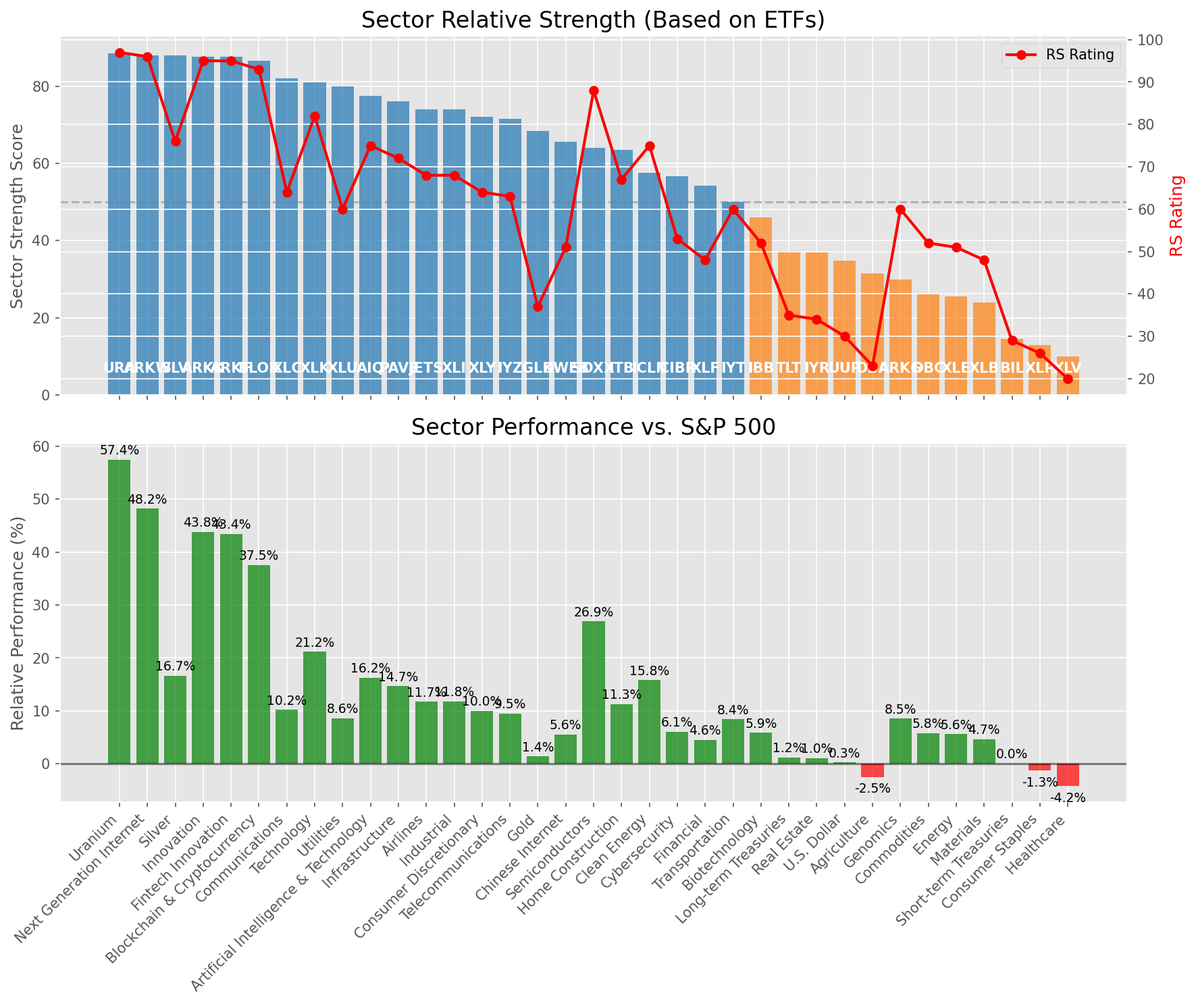
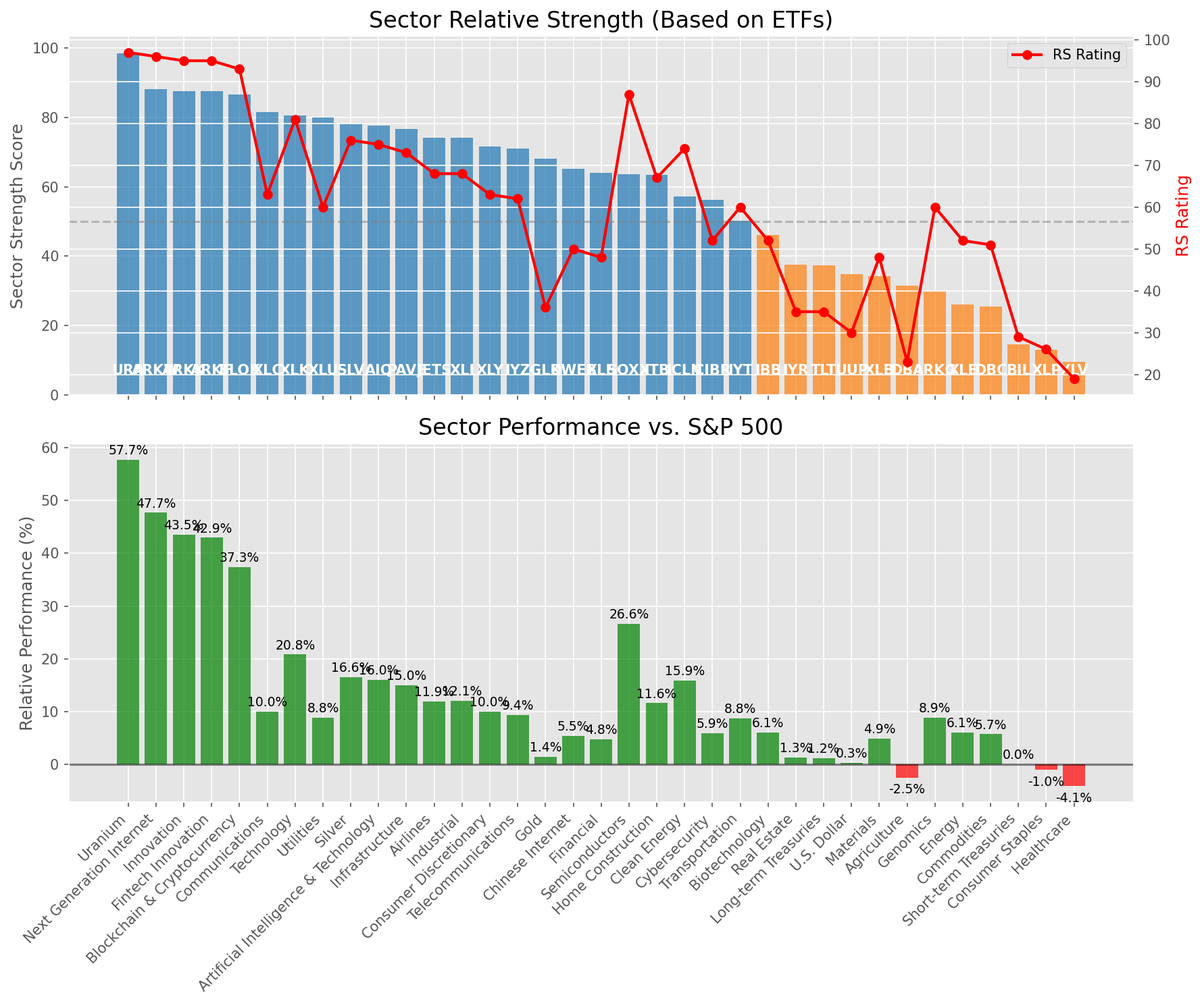
Add market report for 2025-08-05

diff --git a/oneil_relative_strength_report_2025-08-05.md b/oneil_relative_strength_report_2025-08-05.md
@@ -9,11 +9,11 @@
 | Metric | Value |
 |--------|-------|
 | **Market Valuation** | **Overvalued** |
-| **Current Ratio** | 10.20 |
+| **Current Ratio** | 10.21 |
 | **Historical Mean** | 9.60 |
 | **Standard Deviation** | 0.54 |
 | **Z-Score (StdDev from Mean)** | 1.17 |
-| **Total Market Cap** | $309.52 trillion |
+| **Total Market Cap** | $309.58 trillion |
 | **GDP** | $30.33 trillion |
 
 ## **Market Insights**
@@ -49,41 +49,41 @@ Based on William O'Neil's Relative Strength Methodology
 
 | ETF | Strength | RS Rating | Performance | Above Key MAs | Trend | Sector |
 |-----|----------|-----------|-------------|--------------|-------|--------|
-| [URA](https://www.tradingview.com/chart/?symbol=URA) | 88.6 | 97.0 | 57.43% | 10d ✗, 50d ✓, 200d ✓ | ↗ | Uranium |
-| [ARKW](https://www.tradingview.com/chart/?symbol=ARKW) | 88.1 | 96.0 | 48.19% | 10d ✗, 50d ✓, 200d ✓ | ↗ | Next Generation Internet |
-| [SLV](https://www.tradingview.com/chart/?symbol=SLV) | 88.0 | 76.0 | 16.67% | 10d ✓, 50d ✓, 200d ✓ | ↗ | Silver |
-| [ARKK](https://www.tradingview.com/chart/?symbol=ARKK) | 87.6 | 95.0 | 43.78% | 10d ✗, 50d ✓, 200d ✓ | ↗ | Innovation |
-| [ARKF](https://www.tradingview.com/chart/?symbol=ARKF) | 87.6 | 95.0 | 43.39% | 10d ✗, 50d ✓, 200d ✓ | ↗ | Fintech Innovation |
-| [BLOK](https://www.tradingview.com/chart/?symbol=BLOK) | 86.6 | 93.0 | 37.52% | 10d ✗, 50d ✓, 200d ✓ | ↗ | Blockchain & Cryptocurrency |
-| [XLC](https://www.tradingview.com/chart/?symbol=XLC) | 82.0 | 64.0 | 10.19% | 10d ✓, 50d ✓, 200d ✓ | ↗ | Communications |
-| [XLK](https://www.tradingview.com/chart/?symbol=XLK) | 81.1 | 82.0 | 21.15% | 10d ✗, 50d ✓, 200d ✓ | ↗ | Technology |
-| [XLU](https://www.tradingview.com/chart/?symbol=XLU) | 80.0 | 60.0 | 8.64% | 10d ✓, 50d ✓, 200d ✓ | ↗ | Utilities |
-| [AIQ](https://www.tradingview.com/chart/?symbol=AIQ) | 77.6 | 75.0 | 16.25% | 10d ✗, 50d ✓, 200d ✓ | ↗ | Artificial Intelligence & Technology |
-| [PAVE](https://www.tradingview.com/chart/?symbol=PAVE) | 76.1 | 72.0 | 14.65% | 10d ✗, 50d ✓, 200d ✓ | ↗ | Infrastructure |
-| [JETS](https://www.tradingview.com/chart/?symbol=JETS) | 74.1 | 68.0 | 11.72% | 10d ✗, 50d ✓, 200d ✓ | ↗ | Airlines |
-| [XLI](https://www.tradingview.com/chart/?symbol=XLI) | 74.1 | 68.0 | 11.82% | 10d ✗, 50d ✓, 200d ✓ | ↗ | Industrial |
-| [XLY](https://www.tradingview.com/chart/?symbol=XLY) | 72.1 | 64.0 | 9.99% | 10d ✗, 50d ✓, 200d ✓ | ↗ | Consumer Discretionary |
-| [IYZ](https://www.tradingview.com/chart/?symbol=IYZ) | 71.6 | 63.0 | 9.47% | 10d ✗, 50d ✓, 200d ✓ | ↗ | Telecommunications |
-| [GLD](https://www.tradingview.com/chart/?symbol=GLD) | 68.5 | 37.0 | 1.40% | 10d ✓, 50d ✓, 200d ✓ | ↗ | Gold |
-| [KWEB](https://www.tradingview.com/chart/?symbol=KWEB) | 65.6 | 51.0 | 5.56% | 10d ✗, 50d ✓, 200d ✓ | ↗ | Chinese Internet |
-| [SOXX](https://www.tradingview.com/chart/?symbol=SOXX) | 64.1 | 88.0 | 26.89% | 10d ✗, 50d ✓, 200d ✓ | ↘ | Semiconductors |
-| [ITB](https://www.tradingview.com/chart/?symbol=ITB) | 63.5 | 67.0 | 11.30% | 10d ✓, 50d ✓, 200d ✓ | ↘ | Home Construction |
-| [ICLN](https://www.tradingview.com/chart/?symbol=ICLN) | 57.6 | 75.0 | 15.82% | 10d ✗, 50d ✓, 200d ✓ | ↘ | Clean Energy |
-| [CIBR](https://www.tradingview.com/chart/?symbol=CIBR) | 56.7 | 53.0 | 6.07% | 10d ✗, 50d ✗, 200d ✓ | ↗ | Cybersecurity |
-| [XLF](https://www.tradingview.com/chart/?symbol=XLF) | 54.2 | 48.0 | 4.55% | 10d ✗, 50d ✗, 200d ✓ | ↗ | Financial |
-| [IYT](https://www.tradingview.com/chart/?symbol=IYT) | 50.1 | 60.0 | 8.42% | 10d ✗, 50d ✓, 200d ✓ | ↘ | Transportation |
-| [IBB](https://www.tradingview.com/chart/?symbol=IBB) | 46.1 | 52.0 | 5.86% | 10d ✗, 50d ✓, 200d ✓ | ↘ | Biotechnology |
-| [TLT](https://www.tradingview.com/chart/?symbol=TLT) | 37.3 | 35.0 | 1.17% | 10d ✓, 50d ✓, 200d ✗ | ↘ | Long-term Treasuries |
-| [IYR](https://www.tradingview.com/chart/?symbol=IYR) | 37.1 | 34.0 | 1.04% | 10d ✗, 50d ✓, 200d ✓ | ↘ | Real Estate |
-| [UUP](https://www.tradingview.com/chart/?symbol=UUP) | 34.8 | 30.0 | 0.25% | 10d ✓, 50d ✓, 200d ✗ | ↘ | U.S. Dollar |
+| [URA](https://www.tradingview.com/chart/?symbol=URA) | 98.5 | 97.0 | 57.70% | 10d ✓, 50d ✓, 200d ✓ | ↗ | Uranium |
+| [ARKW](https://www.tradingview.com/chart/?symbol=ARKW) | 88.1 | 96.0 | 47.68% | 10d ✗, 50d ✓, 200d ✓ | ↗ | Next Generation Internet |
+| [ARKK](https://www.tradingview.com/chart/?symbol=ARKK) | 87.6 | 95.0 | 43.50% | 10d ✗, 50d ✓, 200d ✓ | ↗ | Innovation |
+| [ARKF](https://www.tradingview.com/chart/?symbol=ARKF) | 87.6 | 95.0 | 42.95% | 10d ✗, 50d ✓, 200d ✓ | ↗ | Fintech Innovation |
+| [BLOK](https://www.tradingview.com/chart/?symbol=BLOK) | 86.6 | 93.0 | 37.35% | 10d ✗, 50d ✓, 200d ✓ | ↗ | Blockchain & Cryptocurrency |
+| [XLC](https://www.tradingview.com/chart/?symbol=XLC) | 81.5 | 63.0 | 10.05% | 10d ✓, 50d ✓, 200d ✓ | ↗ | Communications |
+| [XLK](https://www.tradingview.com/chart/?symbol=XLK) | 80.6 | 81.0 | 20.81% | 10d ✗, 50d ✓, 200d ✓ | ↗ | Technology |
+| [XLU](https://www.tradingview.com/chart/?symbol=XLU) | 80.0 | 60.0 | 8.84% | 10d ✓, 50d ✓, 200d ✓ | ↗ | Utilities |
+| [SLV](https://www.tradingview.com/chart/?symbol=SLV) | 78.1 | 76.0 | 16.57% | 10d ✗, 50d ✓, 200d ✓ | ↗ | Silver |
+| [AIQ](https://www.tradingview.com/chart/?symbol=AIQ) | 77.6 | 75.0 | 16.01% | 10d ✗, 50d ✓, 200d ✓ | ↗ | Artificial Intelligence & Technology |
+| [PAVE](https://www.tradingview.com/chart/?symbol=PAVE) | 76.6 | 73.0 | 14.99% | 10d ✗, 50d ✓, 200d ✓ | ↗ | Infrastructure |
+| [JETS](https://www.tradingview.com/chart/?symbol=JETS) | 74.1 | 68.0 | 11.91% | 10d ✗, 50d ✓, 200d ✓ | ↗ | Airlines |
+| [XLI](https://www.tradingview.com/chart/?symbol=XLI) | 74.1 | 68.0 | 12.08% | 10d ✗, 50d ✓, 200d ✓ | ↗ | Industrial |
+| [XLY](https://www.tradingview.com/chart/?symbol=XLY) | 71.6 | 63.0 | 10.04% | 10d ✗, 50d ✓, 200d ✓ | ↗ | Consumer Discretionary |
+| [IYZ](https://www.tradingview.com/chart/?symbol=IYZ) | 71.1 | 62.0 | 9.41% | 10d ✗, 50d ✓, 200d ✓ | ↗ | Telecommunications |
+| [GLD](https://www.tradingview.com/chart/?symbol=GLD) | 68.0 | 36.0 | 1.44% | 10d ✓, 50d ✓, 200d ✓ | ↗ | Gold |
+| [KWEB](https://www.tradingview.com/chart/?symbol=KWEB) | 65.1 | 50.0 | 5.47% | 10d ✗, 50d ✓, 200d ✓ | ↗ | Chinese Internet |
+| [XLF](https://www.tradingview.com/chart/?symbol=XLF) | 64.1 | 48.0 | 4.78% | 10d ✗, 50d ✓, 200d ✓ | ↗ | Financial |
+| [SOXX](https://www.tradingview.com/chart/?symbol=SOXX) | 63.6 | 87.0 | 26.63% | 10d ✗, 50d ✓, 200d ✓ | ↘ | Semiconductors |
+| [ITB](https://www.tradingview.com/chart/?symbol=ITB) | 63.5 | 67.0 | 11.62% | 10d ✓, 50d ✓, 200d ✓ | ↘ | Home Construction |
+| [ICLN](https://www.tradingview.com/chart/?symbol=ICLN) | 57.1 | 74.0 | 15.92% | 10d ✗, 50d ✓, 200d ✓ | ↘ | Clean Energy |
+| [CIBR](https://www.tradingview.com/chart/?symbol=CIBR) | 56.2 | 52.0 | 5.93% | 10d ✗, 50d ✗, 200d ✓ | ↗ | Cybersecurity |
+| [IYT](https://www.tradingview.com/chart/?symbol=IYT) | 50.1 | 60.0 | 8.79% | 10d ✗, 50d ✓, 200d ✓ | ↘ | Transportation |
+| [IBB](https://www.tradingview.com/chart/?symbol=IBB) | 46.1 | 52.0 | 6.09% | 10d ✗, 50d ✓, 200d ✓ | ↘ | Biotechnology |
+| [IYR](https://www.tradingview.com/chart/?symbol=IYR) | 37.6 | 35.0 | 1.30% | 10d ✗, 50d ✓, 200d ✓ | ↘ | Real Estate |
+| [TLT](https://www.tradingview.com/chart/?symbol=TLT) | 37.3 | 35.0 | 1.21% | 10d ✓, 50d ✓, 200d ✗ | ↘ | Long-term Treasuries |
+| [UUP](https://www.tradingview.com/chart/?symbol=UUP) | 34.8 | 30.0 | 0.31% | 10d ✓, 50d ✓, 200d ✗ | ↘ | U.S. Dollar |
+| [XLB](https://www.tradingview.com/chart/?symbol=XLB) | 34.2 | 48.0 | 4.92% | 10d ✗, 50d ✗, 200d ✓ | ↘ | Materials |
 | [DBA](https://www.tradingview.com/chart/?symbol=DBA) | 31.5 | 23.0 | -2.48% | 10d ✗, 50d ✗, 200d ✗ | ↗ | Agriculture |
-| [ARKG](https://www.tradingview.com/chart/?symbol=ARKG) | 30.0 | 60.0 | 8.53% | 10d ✗, 50d ✗, 200d ✗ | ↘ | Genomics |
-| [DBC](https://www.tradingview.com/chart/?symbol=DBC) | 26.0 | 52.0 | 5.84% | 10d ✗, 50d ✗, 200d ✗ | ↘ | Commodities |
-| [XLE](https://www.tradingview.com/chart/?symbol=XLE) | 25.5 | 51.0 | 5.61% | 10d ✗, 50d ✗, 200d ✗ | ↘ | Energy |
-| [XLB](https://www.tradingview.com/chart/?symbol=XLB) | 24.0 | 48.0 | 4.70% | 10d ✗, 50d ✗, 200d ✗ | ↘ | Materials |
+| [ARKG](https://www.tradingview.com/chart/?symbol=ARKG) | 30.0 | 60.0 | 8.90% | 10d ✗, 50d ✗, 200d ✗ | ↘ | Genomics |
+| [XLE](https://www.tradingview.com/chart/?symbol=XLE) | 26.0 | 52.0 | 6.07% | 10d ✗, 50d ✗, 200d ✗ | ↘ | Energy |
+| [DBC](https://www.tradingview.com/chart/?symbol=DBC) | 25.5 | 51.0 | 5.74% | 10d ✗, 50d ✗, 200d ✗ | ↘ | Commodities |
 | [BIL](https://www.tradingview.com/chart/?symbol=BIL) | 14.5 | 29.0 | 0.03% | 10d ✗, 50d ✗, 200d ✗ | ↘ | Short-term Treasuries |
-| [XLP](https://www.tradingview.com/chart/?symbol=XLP) | 13.0 | 26.0 | -1.26% | 10d ✗, 50d ✗, 200d ✗ | ↘ | Consumer Staples |
-| [XLV](https://www.tradingview.com/chart/?symbol=XLV) | 10.0 | 20.0 | -4.16% | 10d ✗, 50d ✗, 200d ✗ | ↘ | Healthcare |
+| [XLP](https://www.tradingview.com/chart/?symbol=XLP) | 13.0 | 26.0 | -1.01% | 10d ✗, 50d ✗, 200d ✗ | ↘ | Consumer Staples |
+| [XLV](https://www.tradingview.com/chart/?symbol=XLV) | 9.5 | 19.0 | -4.05% | 10d ✗, 50d ✗, 200d ✗ | ↘ | Healthcare |
 
 ### **Sector ETF Performance Interpretation**
 
@@ -98,141 +98,137 @@ This table shows the relative strength metrics for different market sectors base
 
 ### **Current Sector Leadership**
 
-The current market leadership is coming from the following sectors: **Uranium, Next Generation Internet, Silver**.
+The current market leadership is coming from the following sectors: **Uranium, Next Generation Internet, Innovation**.
 
-The **Uranium** sector (represented by **URA**) is showing particularly strong relative strength with an RS rating of 97.0 and performance of 57.43% vs. the S&P 500. This sector is trading above its 50-day, 200-day moving average(s). Investors should consider focusing on high RS stocks within these leading sectors for potential outperformance.
+The **Uranium** sector (represented by **URA**) is showing particularly strong relative strength with an RS rating of 97.0 and performance of 57.70% vs. the S&P 500. This sector is trading above its 10-day, 50-day, 200-day moving average(s). Investors should consider focusing on high RS stocks within these leading sectors for potential outperformance.
 
 ---
 
 ## **Buy Recommendations**
 
-The following 56 stocks show exceptional relative strength:
+The following 54 stocks show exceptional relative strength:
 
 | RS Rating | Buy Score | Current Price | Chart | Name | Ticker |
 |-----------|-----------|---------------|-------|------|--------|
-| 100 | 100 | $196.23 | [Chart](https://www.tradingview.com/chart/?symbol=CLS) | Celestica, Inc. | CLS |
-| 100 | 100 | $150.53 | [Chart](https://www.tradingview.com/chart/?symbol=SEZL) | Sezzle Inc. Common Stock | SEZL |
-| 100 | 100 | $110.27 | [Chart](https://www.tradingview.com/chart/?symbol=CRDO) | Credo Technology Group Holding Ltd Ordinary Shares | CRDO |
-| 100 | 100 | $67.53 | [Chart](https://www.tradingview.com/chart/?symbol=MP) | MP Materials Corp. | MP |
-| 100 | 100 | $104.63 | [Chart](https://www.tradingview.com/chart/?symbol=HOOD) | Robinhood Markets, Inc. Class A Common Stock | HOOD |
-| 100 | 100 | $239.55 | [Chart](https://www.tradingview.com/chart/?symbol=DAVE) | Dave Inc. Class A Common Stock | DAVE |
-| 99 | 100 | $384.56 | [Chart](https://www.tradingview.com/chart/?symbol=TLN) | Talen Energy Corporation Common Stock | TLN |
-| 99 | 100 | $127.02 | [Chart](https://www.tradingview.com/chart/?symbol=RBLX) | Roblox Corporation | RBLX |
-| 98 | 100 | $205.55 | [Chart](https://www.tradingview.com/chart/?symbol=NET) | Cloudflare, Inc. Class A common stock, par value $0.001 per share | NET |
-| 98 | 100 | $38.05 | [Chart](https://www.tradingview.com/chart/?symbol=NNE) | Nano Nuclear Energy Inc. Common Stock | NNE |
-| 98 | 100 | $652.50 | [Chart](https://www.tradingview.com/chart/?symbol=GEV) | GE Vernova Inc. | GEV |
-| 98 | 100 | $58.78 | [Chart](https://www.tradingview.com/chart/?symbol=KTOS) | Kratos Defense & Security Solutions, Inc. | KTOS |
-| 98 | 100 | $186.62 | [Chart](https://www.tradingview.com/chart/?symbol=COOP) | Mr. Cooper Group Inc. Common Stock | COOP |
+| 100 | 100 | $195.96 | [Chart](https://www.tradingview.com/chart/?symbol=CLS) | Celestica, Inc. | CLS |
+| 100 | 100 | $103.87 | [Chart](https://www.tradingview.com/chart/?symbol=HOOD) | Robinhood Markets, Inc. Class A Common Stock | HOOD |
+| 100 | 100 | $240.06 | [Chart](https://www.tradingview.com/chart/?symbol=DAVE) | Dave Inc. Class A Common Stock | DAVE |
+| 100 | 100 | $150.93 | [Chart](https://www.tradingview.com/chart/?symbol=SEZL) | Sezzle Inc. Common Stock | SEZL |
+| 100 | 100 | $109.85 | [Chart](https://www.tradingview.com/chart/?symbol=CRDO) | Credo Technology Group Holding Ltd Ordinary Shares | CRDO |
+| 100 | 100 | $67.72 | [Chart](https://www.tradingview.com/chart/?symbol=MP) | MP Materials Corp. | MP |
+| 99 | 100 | $385.02 | [Chart](https://www.tradingview.com/chart/?symbol=TLN) | Talen Energy Corporation Common Stock | TLN |
+| 99 | 100 | $126.77 | [Chart](https://www.tradingview.com/chart/?symbol=RBLX) | Roblox Corporation | RBLX |
+| 98 | 100 | $58.85 | [Chart](https://www.tradingview.com/chart/?symbol=KTOS) | Kratos Defense & Security Solutions, Inc. | KTOS |
+| 98 | 100 | $206.13 | [Chart](https://www.tradingview.com/chart/?symbol=NET) | Cloudflare, Inc. Class A common stock, par value $0.001 per share | NET |
+| 98 | 100 | $652.24 | [Chart](https://www.tradingview.com/chart/?symbol=GEV) | GE Vernova Inc. | GEV |
+| 98 | 100 | $188.44 | [Chart](https://www.tradingview.com/chart/?symbol=COOP) | Mr. Cooper Group Inc. Common Stock | COOP |
+| 98 | 100 | $38.28 | [Chart](https://www.tradingview.com/chart/?symbol=NNE) | Nano Nuclear Energy Inc. Common Stock | NNE |
 | 97 | 100 | $111.66 | [Chart](https://www.tradingview.com/chart/?symbol=TPR) | Tapestry, Inc. Common Stock | TPR |
-| 96 | 100 | $35.53 | [Chart](https://www.tradingview.com/chart/?symbol=ATRO) | Astronics Corp | ATRO |
-| 96 | 100 | $172.03 | [Chart](https://www.tradingview.com/chart/?symbol=NRG) | NRG Energy, Inc. | NRG |
-| 95 | 100 | $21.59 | [Chart](https://www.tradingview.com/chart/?symbol=MAG) | MAG Silver Corp. | MAG |
-| 95 | 100 | $105.33 | [Chart](https://www.tradingview.com/chart/?symbol=VRNA) | Verona Pharma plc | VRNA |
-| 95 | 100 | $116.26 | [Chart](https://www.tradingview.com/chart/?symbol=SANM) | Sanmina  Corp | SANM |
-| 94 | 100 | $51.57 | [Chart](https://www.tradingview.com/chart/?symbol=BBW) | Build-A-Bear Workshop, Inc. | BBW |
-| 94 | 100 | $512.53 | [Chart](https://www.tradingview.com/chart/?symbol=CW) | Curtiss-Wright Corp. | CW |
-| 93 | 100 | $89.08 | [Chart](https://www.tradingview.com/chart/?symbol=RYTM) | Rhythm Pharmaceuticals, Inc. Common Stock | RYTM |
-| 93 | 100 | $49.30 | [Chart](https://www.tradingview.com/chart/?symbol=REVG) | REV Group, Inc. | REVG |
-| 93 | 100 | $172.01 | [Chart](https://www.tradingview.com/chart/?symbol=PLTR) | Palantir Technologies Inc. Class A Common Stock | PLTR |
-| 93 | 100 | $852.27 | [Chart](https://www.tradingview.com/chart/?symbol=AXON) | Axon Enterprise, Inc. Common Stock | AXON |
-| 92 | 100 | $108.09 | [Chart](https://www.tradingview.com/chart/?symbol=APH) | Amphenol Corporation | APH |
-| 92 | 100 | $48.52 | [Chart](https://www.tradingview.com/chart/?symbol=TOST) | Toast, Inc. | TOST |
-| 92 | 100 | $56.67 | [Chart](https://www.tradingview.com/chart/?symbol=AU) | AngloGold Ashanti plc | AU |
-| 92 | 100 | $347.64 | [Chart](https://www.tradingview.com/chart/?symbol=CVNA) | Carvana Co. | CVNA |
-| 91 | 100 | $84.99 | [Chart](https://www.tradingview.com/chart/?symbol=GDXU) | MicroSectors Gold Miners 3x Leveraged ETN | GDXU |
-| 91 | 100 | $43.19 | [Chart](https://www.tradingview.com/chart/?symbol=LTM) | LATAM Airlines Group S.A. American Depositary Shares (each representing two thousand (2,000) shares of Common Stock) | LTM |
-| 90 | 100 | $91.51 | [Chart](https://www.tradingview.com/chart/?symbol=EBAY) | eBay Inc | EBAY |
+| 96 | 100 | $116.48 | [Chart](https://www.tradingview.com/chart/?symbol=SANM) | Sanmina  Corp | SANM |
+| 96 | 100 | $173.31 | [Chart](https://www.tradingview.com/chart/?symbol=NRG) | NRG Energy, Inc. | NRG |
+| 96 | 100 | $35.63 | [Chart](https://www.tradingview.com/chart/?symbol=ATRO) | Astronics Corp | ATRO |
+| 95 | 100 | $105.38 | [Chart](https://www.tradingview.com/chart/?symbol=VRNA) | Verona Pharma plc | VRNA |
+| 95 | 100 | $21.63 | [Chart](https://www.tradingview.com/chart/?symbol=MAG) | MAG Silver Corp. | MAG |
+| 94 | 100 | $512.92 | [Chart](https://www.tradingview.com/chart/?symbol=CW) | Curtiss-Wright Corp. | CW |
+| 94 | 100 | $51.88 | [Chart](https://www.tradingview.com/chart/?symbol=BBW) | Build-A-Bear Workshop, Inc. | BBW |
+| 93 | 100 | $49.51 | [Chart](https://www.tradingview.com/chart/?symbol=REVG) | REV Group, Inc. | REVG |
+| 93 | 100 | $88.44 | [Chart](https://www.tradingview.com/chart/?symbol=RYTM) | Rhythm Pharmaceuticals, Inc. Common Stock | RYTM |
+| 93 | 100 | $865.25 | [Chart](https://www.tradingview.com/chart/?symbol=AXON) | Axon Enterprise, Inc. Common Stock | AXON |
+| 93 | 100 | $170.93 | [Chart](https://www.tradingview.com/chart/?symbol=PLTR) | Palantir Technologies Inc. Class A Common Stock | PLTR |
+| 92 | 100 | $56.88 | [Chart](https://www.tradingview.com/chart/?symbol=AU) | AngloGold Ashanti plc | AU |
+| 92 | 100 | $108.00 | [Chart](https://www.tradingview.com/chart/?symbol=APH) | Amphenol Corporation | APH |
+| 92 | 100 | $43.30 | [Chart](https://www.tradingview.com/chart/?symbol=LTM) | LATAM Airlines Group S.A. American Depositary Shares (each representing two thousand (2,000) shares of Common Stock) | LTM |
+| 92 | 100 | $349.44 | [Chart](https://www.tradingview.com/chart/?symbol=CVNA) | Carvana Co. | CVNA |
+| 91 | 100 | $85.44 | [Chart](https://www.tradingview.com/chart/?symbol=GDXU) | MicroSectors Gold Miners 3x Leveraged ETN | GDXU |
+| 90 | 100 | $272.03 | [Chart](https://www.tradingview.com/chart/?symbol=GE) | GE Aerospace | GE |
+| 90 | 100 | $91.58 | [Chart](https://www.tradingview.com/chart/?symbol=EBAY) | eBay Inc | EBAY |
 | 89 | 100 | $158.69 | [Chart](https://www.tradingview.com/chart/?symbol=VSEC) | VSE Corp | VSEC |
-| 89 | 100 | $270.96 | [Chart](https://www.tradingview.com/chart/?symbol=GE) | GE Aerospace | GE |
 | 88 | 100 | $55.85 | [Chart](https://www.tradingview.com/chart/?symbol=BTI) | British American Tobacco p.l.c. American Depositary Shares, American Depositary Shares, each representing one Ordinary Share | BTI |
-| 88 | 99 | $39.25 | [Chart](https://www.tradingview.com/chart/?symbol=ZLAB) | Zai Lab Limited American Depositary Shares | ZLAB |
-| 86 | 99 | $33.81 | [Chart](https://www.tradingview.com/chart/?symbol=DB) | Deutsche Bank Aktiengesellschaft | DB |
-| 88 | 98 | $383.80 | [Chart](https://www.tradingview.com/chart/?symbol=APP) | Applovin Corporation Class A Common Stock | APP |
-| 88 | 98 | $50.85 | [Chart](https://www.tradingview.com/chart/?symbol=SIL) | Global X Silver Miners ETF (NEW) | SIL |
-| 86 | 98 | $48.00 | [Chart](https://www.tradingview.com/chart/?symbol=BBIO) | BridgeBio Pharma, Inc. Common Stock | BBIO |
-| 86 | 98 | $42.92 | [Chart](https://www.tradingview.com/chart/?symbol=FROG) | JFrog Ltd. Ordinary Shares | FROG |
-| 87 | 97 | $189.93 | [Chart](https://www.tradingview.com/chart/?symbol=AWI) | Armstrong World Industries, Inc. | AWI |
-| 85 | 97 | $29.21 | [Chart](https://www.tradingview.com/chart/?symbol=OR) | OR Royalties Inc. | OR |
-| 84 | 97 | $39.95 | [Chart](https://www.tradingview.com/chart/?symbol=AHR) | American Healthcare REIT, Inc. | AHR |
-| 86 | 96 | $51.06 | [Chart](https://www.tradingview.com/chart/?symbol=PTCT) | PTC Therapeutics, Inc. | PTCT |
-| 84 | 96 | $80.51 | [Chart](https://www.tradingview.com/chart/?symbol=TPB) | Turning Point Brands, Inc. | TPB |
-| 85 | 95 | $261.29 | [Chart](https://www.tradingview.com/chart/?symbol=WTS) | Watts Water Technologies, Inc. Class A | WTS |
-| 84 | 95 | $146.83 | [Chart](https://www.tradingview.com/chart/?symbol=PPA) | Invesco Aerospace & Defense ETF | PPA |
-| 82 | 95 | $56.50 | [Chart](https://www.tradingview.com/chart/?symbol=ERJ) | Embraer S.A. | ERJ |
-| 84 | 94 | $95.92 | [Chart](https://www.tradingview.com/chart/?symbol=NDAQ) | Nasdaq, Inc. Common Stock | NDAQ |
-| 84 | 94 | $51.26 | [Chart](https://www.tradingview.com/chart/?symbol=FHI) | Federated Hermes, Inc. | FHI |
-| 83 | 94 | $29.09 | [Chart](https://www.tradingview.com/chart/?symbol=PAAS) | Pan American Silver Corp. | PAAS |
-| 83 | 93 | $19.71 | [Chart](https://www.tradingview.com/chart/?symbol=LQDA) | Liquidia Corporation Common Stock | LQDA |
-| 82 | 92 | $113.40 | [Chart](https://www.tradingview.com/chart/?symbol=SXT) | Sensient Technology Corporation | SXT |
-| 81 | 92 | $62.68 | [Chart](https://www.tradingview.com/chart/?symbol=WOR) | Worthington Enterprises, Inc. | WOR |
-| 81 | 92 | $241.36 | [Chart](https://www.tradingview.com/chart/?symbol=BAP) | Credicorp LTD | BAP |
+| 88 | 100 | $48.61 | [Chart](https://www.tradingview.com/chart/?symbol=BBIO) | BridgeBio Pharma, Inc. Common Stock | BBIO |
+| 88 | 99 | $39.43 | [Chart](https://www.tradingview.com/chart/?symbol=ZLAB) | Zai Lab Limited American Depositary Shares | ZLAB |
+| 86 | 99 | $33.80 | [Chart](https://www.tradingview.com/chart/?symbol=DB) | Deutsche Bank Aktiengesellschaft | DB |
+| 88 | 98 | $50.84 | [Chart](https://www.tradingview.com/chart/?symbol=SIL) | Global X Silver Miners ETF (NEW) | SIL |
+| 87 | 97 | $380.44 | [Chart](https://www.tradingview.com/chart/?symbol=APP) | Applovin Corporation Class A Common Stock | APP |
+| 87 | 97 | $190.44 | [Chart](https://www.tradingview.com/chart/?symbol=AWI) | Armstrong World Industries, Inc. | AWI |
+| 86 | 97 | $262.81 | [Chart](https://www.tradingview.com/chart/?symbol=WTS) | Watts Water Technologies, Inc. Class A | WTS |
+| 84 | 97 | $39.98 | [Chart](https://www.tradingview.com/chart/?symbol=AHR) | American Healthcare REIT, Inc. | AHR |
+| 86 | 96 | $51.10 | [Chart](https://www.tradingview.com/chart/?symbol=PTCT) | PTC Therapeutics, Inc. | PTCT |
+| 84 | 96 | $29.14 | [Chart](https://www.tradingview.com/chart/?symbol=OR) | OR Royalties Inc. | OR |
+| 84 | 96 | $80.55 | [Chart](https://www.tradingview.com/chart/?symbol=TPB) | Turning Point Brands, Inc. | TPB |
+| 83 | 96 | $57.00 | [Chart](https://www.tradingview.com/chart/?symbol=ERJ) | Embraer S.A. | ERJ |
+| 85 | 95 | $51.40 | [Chart](https://www.tradingview.com/chart/?symbol=FHI) | Federated Hermes, Inc. | FHI |
+| 85 | 95 | $19.98 | [Chart](https://www.tradingview.com/chart/?symbol=LQDA) | Liquidia Corporation Common Stock | LQDA |
+| 84 | 95 | $147.22 | [Chart](https://www.tradingview.com/chart/?symbol=PPA) | Invesco Aerospace & Defense ETF | PPA |
+| 84 | 94 | $96.44 | [Chart](https://www.tradingview.com/chart/?symbol=NDAQ) | Nasdaq, Inc. Common Stock | NDAQ |
+| 83 | 94 | $197.60 | [Chart](https://www.tradingview.com/chart/?symbol=ITA) | iShares U.S. Aerospace & Defense ETF | ITA |
+| 83 | 94 | $29.14 | [Chart](https://www.tradingview.com/chart/?symbol=PAAS) | Pan American Silver Corp. | PAAS |
+| 82 | 93 | $114.08 | [Chart](https://www.tradingview.com/chart/?symbol=SXT) | Sensient Technology Corporation | SXT |
+| 80 | 91 | $241.51 | [Chart](https://www.tradingview.com/chart/?symbol=BAP) | Credicorp LTD | BAP |
 
 ---
 
 
 ## **Sell Recommendations**
 
-The following 57 stocks show deteriorating relative strength:
+The following 55 stocks show deteriorating relative strength:
 
 | RS Rating | Sell Score | Current Price | Chart | Name | Ticker |
 |-----------|------------|---------------|-------|------|--------|
-| 1 | 100 | $11.93 | [Chart](https://www.tradingview.com/chart/?symbol=NVDS) | Investment Managers Series Trust II Tradr 1.5X Short NVDA Daily ETF | NVDS |
-| 1 | 100 | $16.67 | [Chart](https://www.tradingview.com/chart/?symbol=GPCR) | Structure Therapeutics Inc. American Depositary Shares | GPCR |
-| 2 | 100 | $23.40 | [Chart](https://www.tradingview.com/chart/?symbol=ZSL) | ProShares UltraShort Silver | ZSL |
-| 2 | 100 | $13.71 | [Chart](https://www.tradingview.com/chart/?symbol=CLBT) | Cellebrite DI Ltd. Class A Ordinary Shares | CLBT |
-| 2 | 100 | $16.32 | [Chart](https://www.tradingview.com/chart/?symbol=DJT) | Trump Media & Technology Group Corp. Common Stock | DJT |
-| 5 | 100 | $115.80 | [Chart](https://www.tradingview.com/chart/?symbol=RGEN) | Repligen Corp | RGEN |
-| 5 | 100 | $25.22 | [Chart](https://www.tradingview.com/chart/?symbol=TBBB) | BBB Foods Inc. | TBBB |
-| 5 | 100 | $20.30 | [Chart](https://www.tradingview.com/chart/?symbol=KIDS) | OrthoPediatrics Corp. Common Stock | KIDS |
+| 1 | 100 | $11.97 | [Chart](https://www.tradingview.com/chart/?symbol=NVDS) | Investment Managers Series Trust II Tradr 1.5X Short NVDA Daily ETF | NVDS |
+| 1 | 100 | $16.68 | [Chart](https://www.tradingview.com/chart/?symbol=GPCR) | Structure Therapeutics Inc. American Depositary Shares | GPCR |
+| 2 | 100 | $13.69 | [Chart](https://www.tradingview.com/chart/?symbol=CLBT) | Cellebrite DI Ltd. Class A Ordinary Shares | CLBT |
+| 2 | 100 | $35.67 | [Chart](https://www.tradingview.com/chart/?symbol=IBTA) | Ibotta, Inc. | IBTA |
+| 2 | 100 | $16.38 | [Chart](https://www.tradingview.com/chart/?symbol=DJT) | Trump Media & Technology Group Corp. Common Stock | DJT |
+| 5 | 100 | $20.29 | [Chart](https://www.tradingview.com/chart/?symbol=KIDS) | OrthoPediatrics Corp. Common Stock | KIDS |
+| 5 | 100 | $24.90 | [Chart](https://www.tradingview.com/chart/?symbol=TBBB) | BBB Foods Inc. | TBBB |
 | 6 | 100 | $10.37 | [Chart](https://www.tradingview.com/chart/?symbol=OEC) | Orion S.A. | OEC |
-| 7 | 100 | $12.85 | [Chart](https://www.tradingview.com/chart/?symbol=CDNA) | CareDx, Inc. | CDNA |
-| 7 | 100 | $21.49 | [Chart](https://www.tradingview.com/chart/?symbol=AMPH) | Amphastar Pharmaceuticals, Inc. | AMPH |
-| 8 | 100 | $36.04 | [Chart](https://www.tradingview.com/chart/?symbol=LZB) | La-Z-Boy Incorporated | LZB |
+| 7 | 100 | $12.95 | [Chart](https://www.tradingview.com/chart/?symbol=CDNA) | CareDx, Inc. | CDNA |
 | 8 | 100 | $20.95 | [Chart](https://www.tradingview.com/chart/?symbol=AMRK) | A-Mark Precious Metals, Inc. | AMRK |
-| 10 | 100 | $54.68 | [Chart](https://www.tradingview.com/chart/?symbol=HRB) | H&R Block, Inc. | HRB |
+| 9 | 100 | $36.19 | [Chart](https://www.tradingview.com/chart/?symbol=LZB) | La-Z-Boy Incorporated | LZB |
+| 10 | 100 | $54.84 | [Chart](https://www.tradingview.com/chart/?symbol=HRB) | H&R Block, Inc. | HRB |
 | 14 | 100 | $53.45 | [Chart](https://www.tradingview.com/chart/?symbol=AMWD) | American Woodmark Corp | AMWD |
-| 5 | 98 | $41.66 | [Chart](https://www.tradingview.com/chart/?symbol=SDOW) | ProShares UltraPro Short Dow 30 | SDOW |
+| 6 | 99 | $116.19 | [Chart](https://www.tradingview.com/chart/?symbol=RGEN) | Repligen Corp | RGEN |
+| 5 | 98 | $41.58 | [Chart](https://www.tradingview.com/chart/?symbol=SDOW) | ProShares UltraPro Short Dow 30 | SDOW |
 | 9 | 98 | $22.54 | [Chart](https://www.tradingview.com/chart/?symbol=ERY) | Direxion Daily Energy Bear 2X Shares | ERY |
-| 6 | 97 | $13.61 | [Chart](https://www.tradingview.com/chart/?symbol=EWTX) | Edgewise Therapeutics, Inc. Common Stock | EWTX |
-| 7 | 97 | $20.64 | [Chart](https://www.tradingview.com/chart/?symbol=BLFS) | BioLife Solutions Inc. | BLFS |
-| 7 | 97 | $19.45 | [Chart](https://www.tradingview.com/chart/?symbol=GAP) | The Gap, Inc. | GAP |
-| 12 | 97 | $19.35 | [Chart](https://www.tradingview.com/chart/?symbol=AVBP) | ArriVent BioPharma, Inc. Common Stock | AVBP |
-| 12 | 96 | $49.49 | [Chart](https://www.tradingview.com/chart/?symbol=PRCT) | PROCEPT BioRobotics Corporation Common Stock | PRCT |
-| 13 | 96 | $16.46 | [Chart](https://www.tradingview.com/chart/?symbol=CTO) | CTO Realty Growth, Inc. | CTO |
+| 6 | 97 | $13.70 | [Chart](https://www.tradingview.com/chart/?symbol=EWTX) | Edgewise Therapeutics, Inc. Common Stock | EWTX |
+| 7 | 97 | $20.78 | [Chart](https://www.tradingview.com/chart/?symbol=BLFS) | BioLife Solutions Inc. | BLFS |
+| 7 | 97 | $19.48 | [Chart](https://www.tradingview.com/chart/?symbol=GAP) | The Gap, Inc. | GAP |
+| 12 | 97 | $16.44 | [Chart](https://www.tradingview.com/chart/?symbol=CTO) | CTO Realty Growth, Inc. | CTO |
+| 12 | 96 | $19.32 | [Chart](https://www.tradingview.com/chart/?symbol=AVBP) | ArriVent BioPharma, Inc. Common Stock | AVBP |
 | 9 | 95 | $15.07 | [Chart](https://www.tradingview.com/chart/?symbol=PLSE) | Pulse Biosciences, Inc Common Stock (DE) | PLSE |
-| 15 | 95 | $15.57 | [Chart](https://www.tradingview.com/chart/?symbol=FIHL) | Fidelis Insurance Holdings Limited | FIHL |
-| 11 | 94 | $12.77 | [Chart](https://www.tradingview.com/chart/?symbol=BSM) | Black Stone Minerals, L.P. | BSM |
-| 16 | 94 | $13.15 | [Chart](https://www.tradingview.com/chart/?symbol=GOOD) | Gladstone Commercial Corporation - REIT | GOOD |
-| 11 | 93 | $39.25 | [Chart](https://www.tradingview.com/chart/?symbol=SH) | ProShares Short S&P500 | SH |
-| 19 | 92 | $22.30 | [Chart](https://www.tradingview.com/chart/?symbol=CURB) | Curbline Properties Corp. | CURB |
-| 19 | 91 | $37.24 | [Chart](https://www.tradingview.com/chart/?symbol=PBA) | PEMBINA PIPELINE CORPORATION | PBA |
+| 10 | 95 | $12.75 | [Chart](https://www.tradingview.com/chart/?symbol=BSM) | Black Stone Minerals, L.P. | BSM |
+| 12 | 95 | $49.10 | [Chart](https://www.tradingview.com/chart/?symbol=PRCT) | PROCEPT BioRobotics Corporation Common Stock | PRCT |
+| 16 | 94 | $15.68 | [Chart](https://www.tradingview.com/chart/?symbol=FIHL) | Fidelis Insurance Holdings Limited | FIHL |
+| 11 | 93 | $39.27 | [Chart](https://www.tradingview.com/chart/?symbol=SH) | ProShares Short S&P500 | SH |
+| 16 | 93 | $13.21 | [Chart](https://www.tradingview.com/chart/?symbol=GOOD) | Gladstone Commercial Corporation - REIT | GOOD |
+| 19 | 92 | $22.32 | [Chart](https://www.tradingview.com/chart/?symbol=CURB) | Curbline Properties Corp. | CURB |
+| 18 | 91 | $12.88 | [Chart](https://www.tradingview.com/chart/?symbol=CCRN) | Cross Country Healthcare Inc | CCRN |
 | 13 | 90 | $10.27 | [Chart](https://www.tradingview.com/chart/?symbol=ACIC) | American Coastal Insurance Corporation Common Stock | ACIC |
-| 19 | 90 | $16.53 | [Chart](https://www.tradingview.com/chart/?symbol=UMH) | UMH Properties, Inc. | UMH |
-| 19 | 89 | $87.50 | [Chart](https://www.tradingview.com/chart/?symbol=BCO) | The Brink's Company | BCO |
-| 20 | 89 | $12.97 | [Chart](https://www.tradingview.com/chart/?symbol=CCRN) | Cross Country Healthcare Inc | CCRN |
-| 21 | 89 | $44.47 | [Chart](https://www.tradingview.com/chart/?symbol=EPI) | WisdomTree India Earnings Fund ETF | EPI |
-| 14 | 87 | $41.73 | [Chart](https://www.tradingview.com/chart/?symbol=BILL) | BILL Holdings, Inc. | BILL |
-| 19 | 87 | $86.21 | [Chart](https://www.tradingview.com/chart/?symbol=BIDU) | Baidu, Inc. | BIDU |
-| 21 | 87 | $12.38 | [Chart](https://www.tradingview.com/chart/?symbol=ZYME) | Zymeworks Inc. | ZYME |
-| 16 | 86 | $99.09 | [Chart](https://www.tradingview.com/chart/?symbol=AFL) | Aflac Inc. | AFL |
-| 19 | 85 | $12.12 | [Chart](https://www.tradingview.com/chart/?symbol=WSR) | Whitestone REIT | WSR |
-| 18 | 83 | $10.24 | [Chart](https://www.tradingview.com/chart/?symbol=BRKL) | Brookline Bancorp Inc | BRKL |
-| 27 | 83 | $40.60 | [Chart](https://www.tradingview.com/chart/?symbol=APOG) | Apogee Enterprises Inc | APOG |
-| 32 | 83 | $16.78 | [Chart](https://www.tradingview.com/chart/?symbol=SVOL) | Simplify Volatility Premium ETF | SVOL |
-| 18 | 82 | $60.12 | [Chart](https://www.tradingview.com/chart/?symbol=UL) | Unilever plc | UL |
-| 18 | 82 | $14.37 | [Chart](https://www.tradingview.com/chart/?symbol=OSPN) | OneSpan Inc. Common Stock | OSPN |
-| 25 | 82 | $95.53 | [Chart](https://www.tradingview.com/chart/?symbol=IRM) | Iron Mountain Inc. | IRM |
-| 25 | 81 | $36.35 | [Chart](https://www.tradingview.com/chart/?symbol=VNO) | Vornado Realty Trust | VNO |
-| 35 | 81 | $11.97 | [Chart](https://www.tradingview.com/chart/?symbol=M) | Macy's Inc. | M |
-| 30 | 80 | $13.12 | [Chart](https://www.tradingview.com/chart/?symbol=MED) | Medifast, Inc. | MED |
-| 23 | 79 | $12.19 | [Chart](https://www.tradingview.com/chart/?symbol=NU) | Nu Holdings Ltd. | NU |
-| 23 | 79 | $31.68 | [Chart](https://www.tradingview.com/chart/?symbol=DAR) | DARLING INGREDIENTS INC. | DAR |
-| 28 | 76 | $56.62 | [Chart](https://www.tradingview.com/chart/?symbol=USRT) | iShares Core U.S. REIT ETF | USRT |
-| 29 | 75 | $23.29 | [Chart](https://www.tradingview.com/chart/?symbol=IBTF) | iShares iBonds Dec 2025 Term Treasury ETF | IBTF |
-| 30 | 75 | $59.92 | [Chart](https://www.tradingview.com/chart/?symbol=FTSM) | First Trust Enhanced Short Maturity ETF | FTSM |
-| 38 | 75 | $24.08 | [Chart](https://www.tradingview.com/chart/?symbol=FLBL) | Franklin Senior Loan ETF | FLBL |
+| 20 | 89 | $16.63 | [Chart](https://www.tradingview.com/chart/?symbol=UMH) | UMH Properties, Inc. | UMH |
+| 21 | 89 | $44.48 | [Chart](https://www.tradingview.com/chart/?symbol=EPI) | WisdomTree India Earnings Fund ETF | EPI |
+| 14 | 87 | $41.78 | [Chart](https://www.tradingview.com/chart/?symbol=BILL) | BILL Holdings, Inc. | BILL |
+| 18 | 87 | $85.95 | [Chart](https://www.tradingview.com/chart/?symbol=BIDU) | Baidu, Inc. | BIDU |
+| 21 | 87 | $88.15 | [Chart](https://www.tradingview.com/chart/?symbol=BCO) | The Brink's Company | BCO |
+| 21 | 87 | $12.41 | [Chart](https://www.tradingview.com/chart/?symbol=ZYME) | Zymeworks Inc. | ZYME |
+| 23 | 87 | $10.34 | [Chart](https://www.tradingview.com/chart/?symbol=LOCO) | El Pollo Loco Holdings, Inc. | LOCO |
+| 16 | 86 | $99.22 | [Chart](https://www.tradingview.com/chart/?symbol=AFL) | Aflac Inc. | AFL |
+| 18 | 86 | $12.12 | [Chart](https://www.tradingview.com/chart/?symbol=WSR) | Whitestone REIT | WSR |
+| 26 | 84 | $40.60 | [Chart](https://www.tradingview.com/chart/?symbol=APOG) | Apogee Enterprises Inc | APOG |
+| 31 | 84 | $16.75 | [Chart](https://www.tradingview.com/chart/?symbol=SVOL) | Simplify Volatility Premium ETF | SVOL |
+| 24 | 83 | $95.48 | [Chart](https://www.tradingview.com/chart/?symbol=IRM) | Iron Mountain Inc. | IRM |
+| 18 | 82 | $14.41 | [Chart](https://www.tradingview.com/chart/?symbol=OSPN) | OneSpan Inc. Common Stock | OSPN |
+| 19 | 82 | $10.27 | [Chart](https://www.tradingview.com/chart/?symbol=BRKL) | Brookline Bancorp Inc | BRKL |
+| 22 | 79 | $12.14 | [Chart](https://www.tradingview.com/chart/?symbol=NU) | Nu Holdings Ltd. | NU |
+| 36 | 79 | $12.00 | [Chart](https://www.tradingview.com/chart/?symbol=M) | Macy's Inc. | M |
+| 24 | 78 | $31.83 | [Chart](https://www.tradingview.com/chart/?symbol=DAR) | DARLING INGREDIENTS INC. | DAR |
+| 31 | 78 | $13.16 | [Chart](https://www.tradingview.com/chart/?symbol=MED) | Medifast, Inc. | MED |
+| 28 | 76 | $23.29 | [Chart](https://www.tradingview.com/chart/?symbol=IBTF) | iShares iBonds Dec 2025 Term Treasury ETF | IBTF |
+| 29 | 76 | $59.91 | [Chart](https://www.tradingview.com/chart/?symbol=FTSM) | First Trust Enhanced Short Maturity ETF | FTSM |
+| 29 | 75 | $56.78 | [Chart](https://www.tradingview.com/chart/?symbol=USRT) | iShares Core U.S. REIT ETF | USRT |
 | 31 | 74 | $18.95 | [Chart](https://www.tradingview.com/chart/?symbol=KRNT) | Kornit Digital Ltd. | KRNT |
-| 31 | 71 | $30.73 | [Chart](https://www.tradingview.com/chart/?symbol=FLRN) | SPDR Bloomberg Investment Grade Floating Rate ETF | FLRN |
+| 38 | 74 | $24.10 | [Chart](https://www.tradingview.com/chart/?symbol=FLBL) | Franklin Senior Loan ETF | FLBL |
+| 30 | 72 | $30.73 | [Chart](https://www.tradingview.com/chart/?symbol=FLRN) | SPDR Bloomberg Investment Grade Floating Rate ETF | FLRN |
+| 34 | 72 | $37.41 | [Chart](https://www.tradingview.com/chart/?symbol=VNO) | Vornado Realty Trust | VNO |
 
 ## **Methodology**
 
